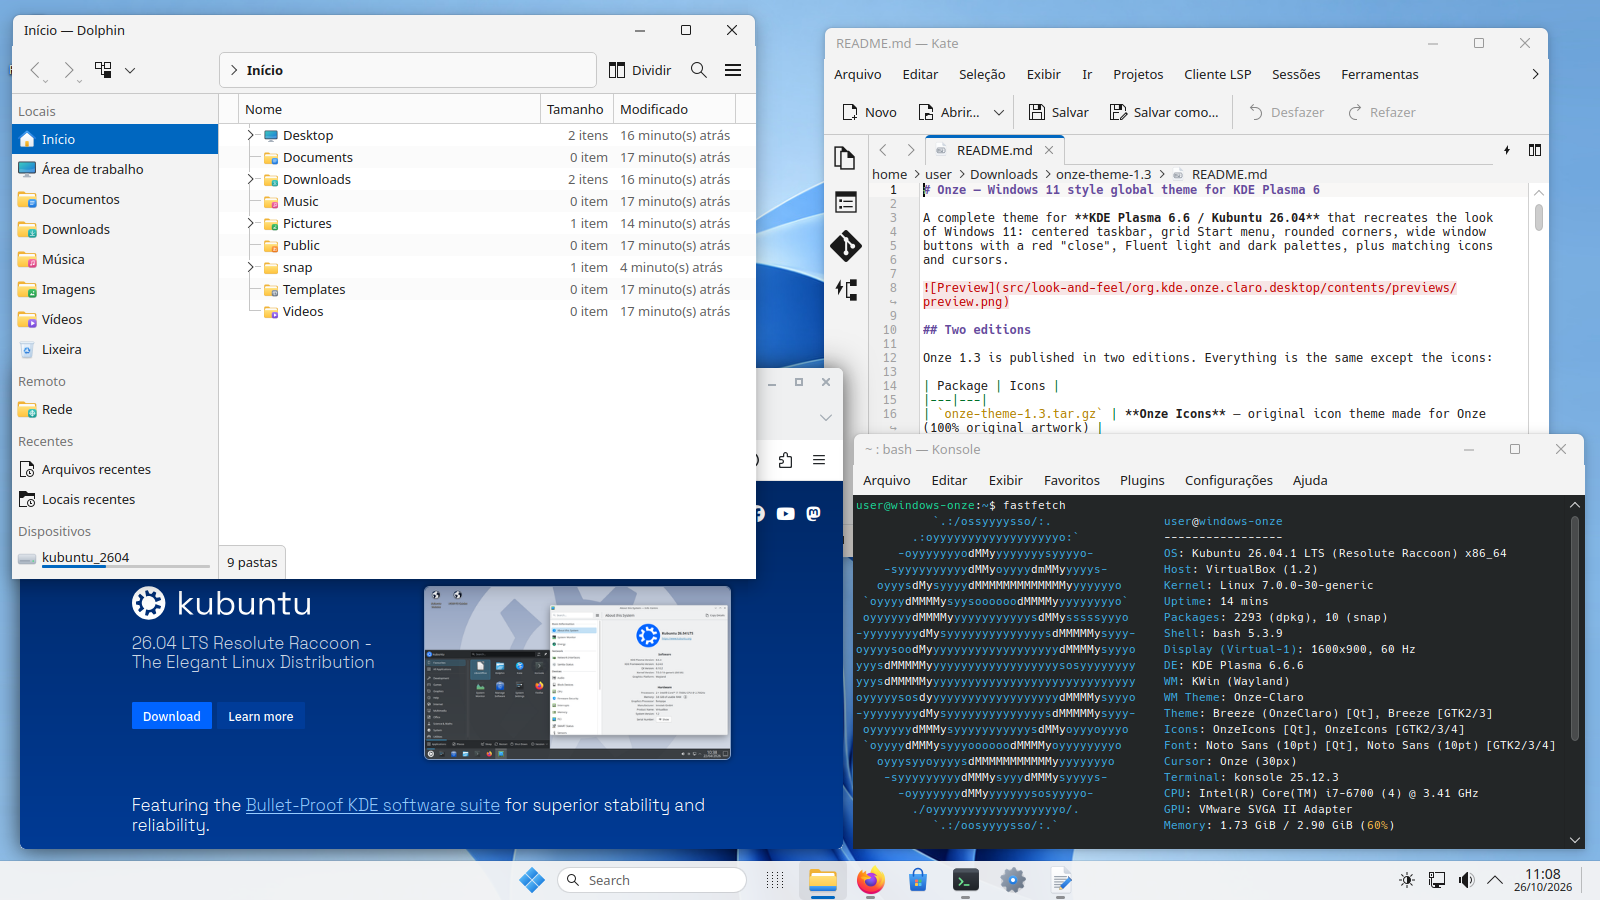
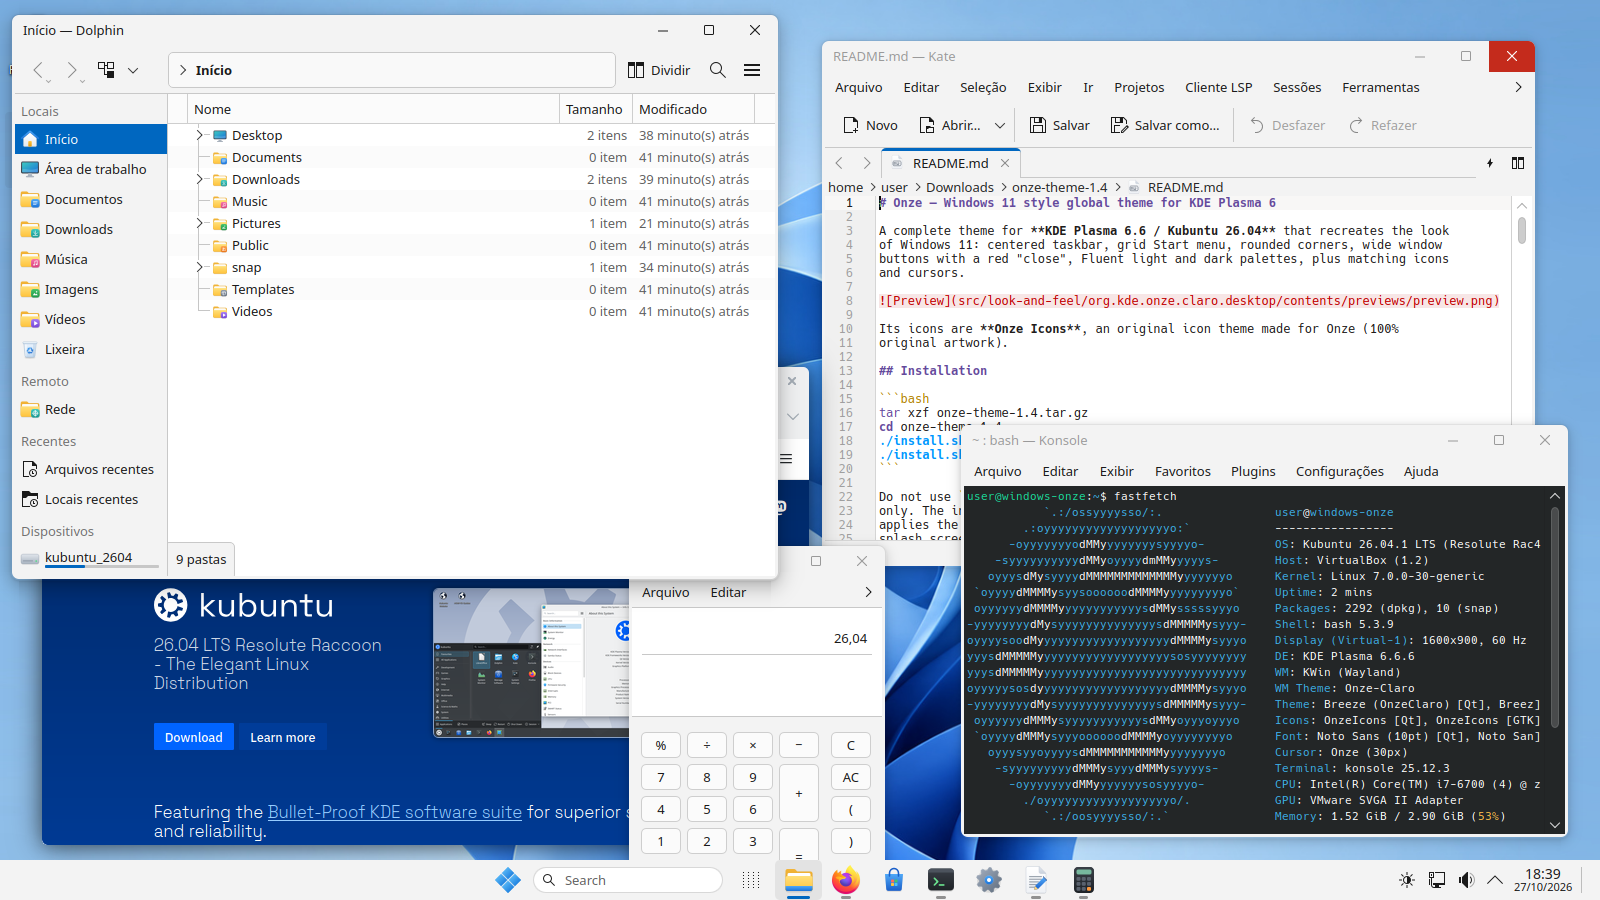
Onze 1.4 — rounded bottom window corners
The window decorations (Onze Light and Onze Dark) now have a 4 px frame in the
window color around the sides and bottom, with 8 px rounded corners at the top
and at the bottom. The installer and the global themes set the window border
size to Normal so that the frame is used. Version 1.4 in all packages.

Changed region(s): [[0.0, 0.0, 1.0, 1.0], [0.0938, 0.0622, 0.2188, 0.3733], [0.0, 0.0311, 0.0938, 0.0622]]

diff --git a/tools/gerar_tema.py b/tools/gerar_tema.py
@@ -33,7 +33,7 @@ from shapely.ops import unary_union
 ROOT = os.path.dirname(os.path.dirname(os.path.abspath(__file__)))
 
 # Authorship and version used in every generated metadata file
-VERSION = "1.3"
+VERSION = "1.4"
 AUTHOR = {"Name": "Rafael Carvalho Ramos", "Email": "rafaelramosmacae@gmail.com"}
 COPYRIGHT = "© 2026 Projeto Onze — Rafael Carvalho Ramos"
 SRC = os.path.join(ROOT, "src")
@@ -511,7 +511,7 @@ def desktoptheme():
 # ---------------------------------------------------------------------------
 # 5. Decoração de janelas (Aurorae)
 # ---------------------------------------------------------------------------
-AUR = dict(PL=26, PR=26, PT=20, PB=32, R=8, TITLE=32, BW=46, BH=31)
+AUR = dict(PL=26, PR=26, PT=20, PB=32, R=8, TITLE=32, BW=46, BH=31, FRAME=4)
 
 
 def aurorae(variant):
@@ -537,7 +537,9 @@ def aurorae(variant):
     x0, y0 = P["PL"], P["PT"]
     x1, y1 = x0 + ww, y0 + wh
     R = P["R"]
-    corners = (1, 1, 0, 0)
+    # all four corners rounded: the 4 px frame (BorderLeft/Right/Bottom) is wide enough for the
+    # square corners of the window contents to sit inside the 8 px curve
+    corners = (1, 1, 1, 1)
     outer = rrect(x0, y0, x1, y1, R, corners)
     inner = rrect(x0 + 1, y0 + 1, x1 - 1, y1 - 1, R - 1, corners)
     border = outer.difference(inner)
@@ -632,7 +634,7 @@ def aurorae(variant):
         "TitleAlignment=Left", "TitleVerticalAlignment=Center",
         "Animation=120", "Shadow=true", "UseTextShadow=false", "",
         "[Layout]",
-        "BorderLeft=1", "BorderRight=1", "BorderBottom=1",
+        f"BorderLeft={P['FRAME']}", f"BorderRight={P['FRAME']}", f"BorderBottom={P['FRAME']}",
         "TitleEdgeTop=1", "TitleEdgeBottom=0", "TitleEdgeLeft=1", "TitleEdgeRight=1",
         "TitleEdgeTopMaximized=0", "TitleEdgeBottomMaximized=0",
         "TitleEdgeLeftMaximized=0", "TitleEdgeRightMaximized=0",

diff --git a/tools/prepare_wallpaper.py b/tools/prepare_wallpaper.py
@@ -188,7 +188,7 @@ def main():
         json.dump({"KPlugin": {"Authors": [{"Name": "Rafael Carvalho Ramos",
                                             "Email": "rafaelramosmacae@gmail.com"}],
                                "Copyright": "© 2026 Projeto Onze — Rafael Carvalho Ramos",
-                               "Id": "Onze", "License": "CC0-1.0", "Name": "Onze", "Version": "1.3"},
+                               "Id": "Onze", "License": "CC0-1.0", "Name": "Onze", "Version": "1.4"},
                    "KPackageStructure": "Wallpaper/Images"}, f, indent=4)
         f.write("\n")
     print("Wallpaper package written to", OUT)

diff --git a/tools/gerar_icones.py b/tools/gerar_icones.py
@@ -26,7 +26,7 @@ ROOT = os.path.dirname(os.path.dirname(os.path.abspath(__file__)))
 OUT = os.path.join(ROOT, "src", "icons")
 LIGHT = os.path.join(OUT, "OnzeIcons")
 DARK = os.path.join(OUT, "OnzeIcons-Dark")
-VERSION = "1.3"
+VERSION = "1.4"
 FONT = "/usr/share/fonts/opentype/inter/Inter-Bold.otf"
 
 # --------------------------------------------------------------------------------

diff --git a/tools/README.packages.md b/tools/README.packages.md
@@ -13,8 +13,8 @@ original artwork).
 ## Installation
 
 ```bash
-tar xzf onze-theme-1.3.tar.gz
-cd onze-theme-1.3
+tar xzf onze-theme-1.4.tar.gz
+cd onze-theme-1.4
 ./install.sh                       # asks: light or dark? center or left? language?
 ./install.sh --dark --start left   # answers questions up front
 ```
@@ -84,9 +84,13 @@ active color scheme, so a single style serves both light and dark.
 
 **Window decoration** — 32 px title bar in the window color, left-aligned title,
 46 × 31 px buttons with thin glyphs (minimize, maximize, restore, close), a red
-`#C42B1C` "close" on hover with a rounded top-right corner, 8 px top corners and
-a large shadow. Border size is set to **None**, so you resize windows from the
-invisible area around them, as in Windows.
+`#C42B1C` "close" on hover with a rounded top-right corner, 8 px corners at the
+top **and at the bottom**, and a large shadow. The sides and bottom have a 4 px
+frame in the window color (border size **Normal**): it is what lets the bottom
+corners be rounded, since KWin does not round the contents of windows drawn by
+an Aurorae theme. Where an app paints a different color right up to the edge
+(e.g. a terminal), the frame shows as a thin band. Maximized windows have no
+frame. You resize windows from the frame or from the invisible area around it.
 
 **Taskbar** — `[ Start | Search | Task View | pinned apps ]` in the center
 (or on the left, Windows 10 style, if you choose so during installation);
@@ -190,9 +194,12 @@ The package is built from the source folder with `tools/build-packages.sh`.
 
 ## Known limitations
 
-- **Bottom window corners**: KWin does not round window contents, so only the
-  title bar corners are rounded. To round all of them, install the community
-  effect [KDE-Rounded-Corners](https://github.com/matinlotfali/KDE-Rounded-Corners).
+- **Rounded bottom corners**: they come from the 4 px window frame, not from
+  rounding the app itself, so the app's own corner stays square inside the
+  curve. It is only noticeable where the app paints a dark color up to the edge
+  (e.g. Konsole with the light theme). The community effect
+  [KDE-Rounded-Corners](https://github.com/matinlotfali/KDE-Rounded-Corners)
+  rounds the window contents too, at some GPU cost.
 - **Application style**: controls inside apps keep the Breeze style (with the
   Onze colors). For Fluent-style controls, see Kvantum with the
   [Fluent-kde](https://github.com/vinceliuice/Fluent-kde) theme.
@@ -206,7 +213,7 @@ The package is built from the source folder with `tools/build-packages.sh`.
 
 ## Credits
 
-**Onze theme**, version 1.3 — a **Projeto Onze** project, created by
+**Onze theme**, version 1.4 — a **Projeto Onze** project, created by
 **Rafael Carvalho Ramos**
 ([rafaelramosmacae@gmail.com](mailto:rafaelramosmacae@gmail.com)):
 color schemes, Plasma style, window decorations, layout, plasmoids, splash
@@ -232,6 +239,8 @@ affiliated with or endorsed by Microsoft.
 
 ## Changelog
 
+- **1.4** — Windows with rounded bottom corners: 4 px frame in the window
+  color around the sides and bottom (border size "Normal").
 - **1.3** — New original **Onze Icons** icon theme.
   New wallpaper by the author, in light and dark versions, 16:9 and 16:10, up to 3840 px.
   Widgets in English or Portuguese (`--lang`, asked during installation).

diff --git a/README.md b/README.md
@@ -10,13 +10,13 @@ icons — installed for your user only, with a script that can undo everything.
 
 ## Download
 
-Get `onze-theme-1.3.tar.gz` from the [**latest release**](../../releases/latest).
+Get `onze-theme-1.4.tar.gz` from the [**latest release**](../../releases/latest).
 
 ## Installation
 
 ```bash
-tar xzf onze-theme-1.3.tar.gz
-cd onze-theme-1.3
+tar xzf onze-theme-1.4.tar.gz
+cd onze-theme-1.4
 ./install.sh                       # asks: light or dark? center or left? language?
 ./install.sh --dark --start left   # answers questions up front
 ```
